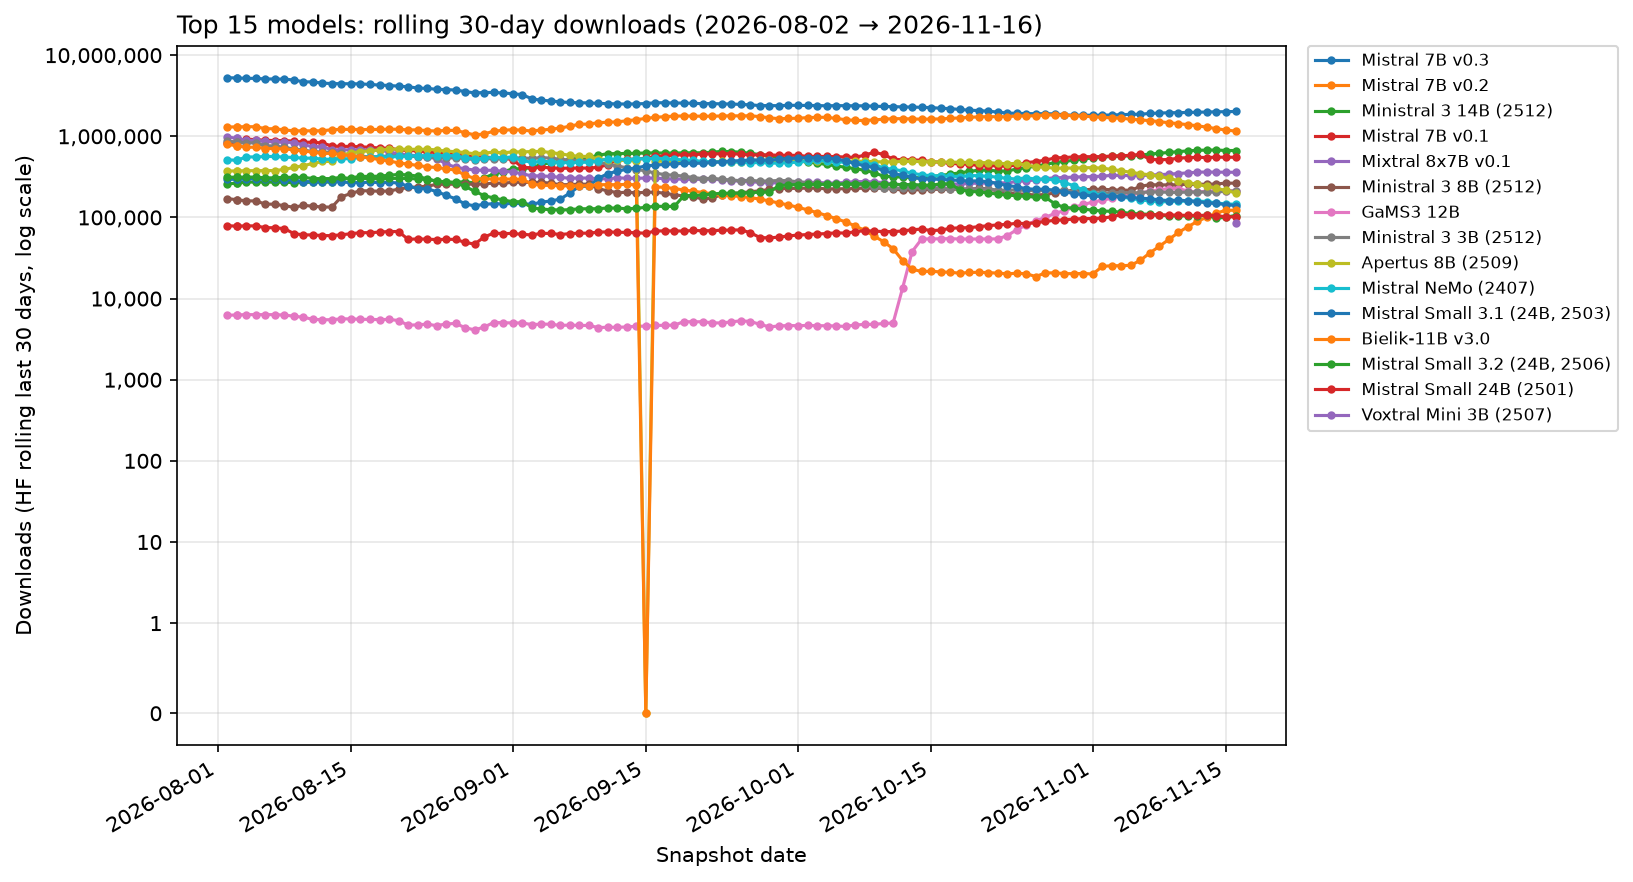
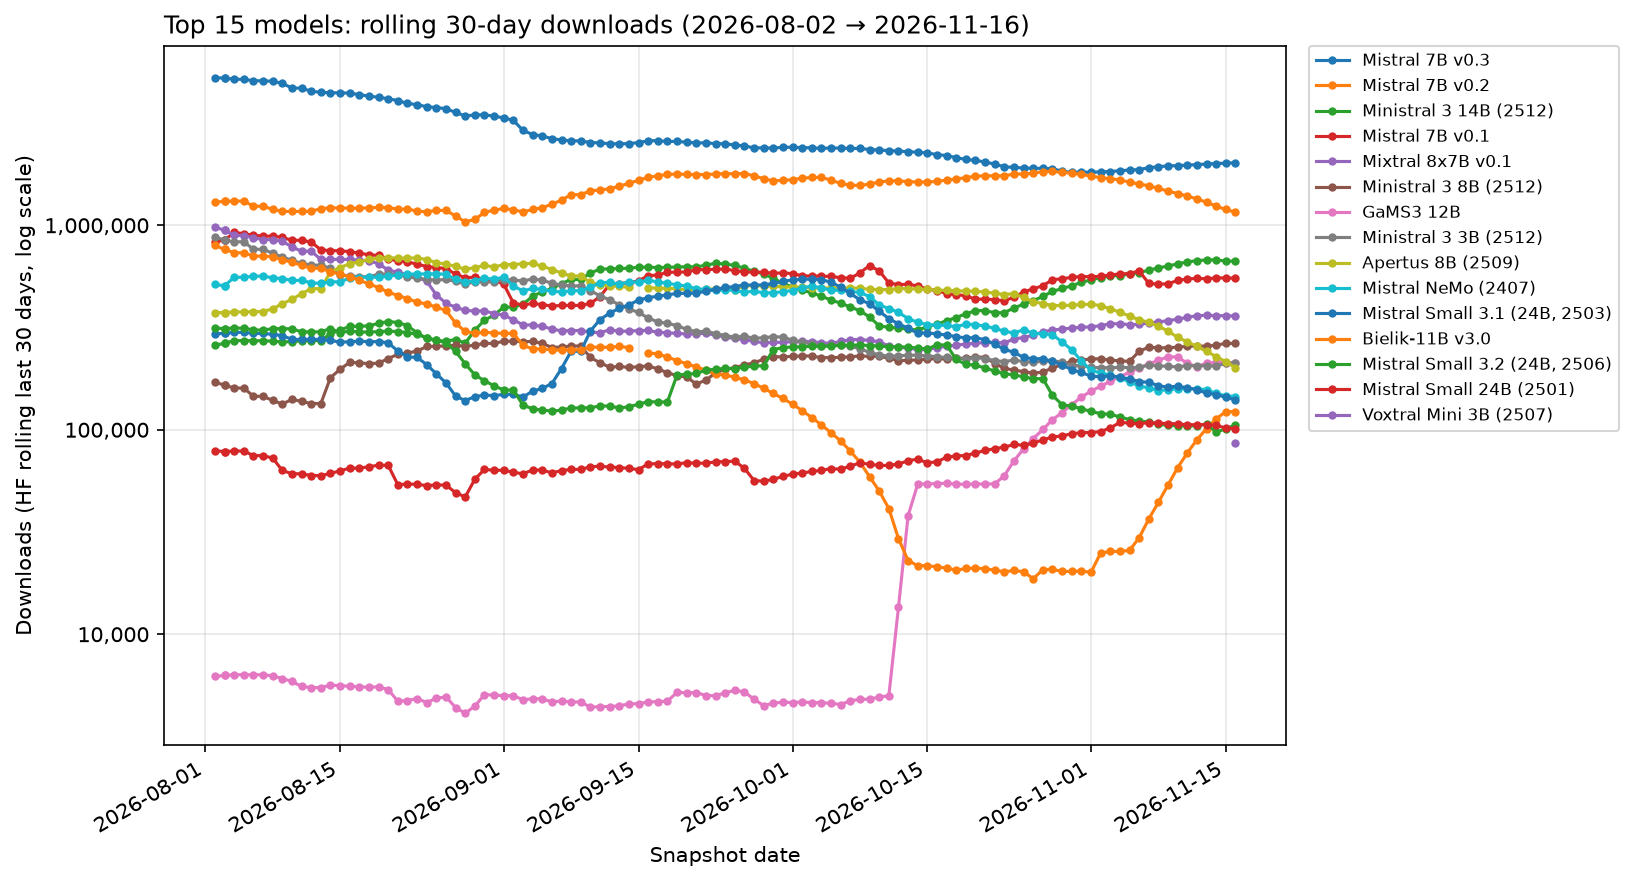
Omit incomplete observations from rolling-download charts (#3)

diff --git a/tests/test_timeseries_history.py b/tests/test_timeseries_history.py
@@ -1,9 +1,10 @@
 import sys
+import json
 import unittest
 from pathlib import Path
 
 sys.path.insert(0, str(Path(__file__).resolve().parents[1] / 'scripts'))
-from render_timeseries_charts import model_daily_delta_series, org_daily_deltas, org_totals_per_day
+from render_timeseries_charts import model_series, model_daily_delta_series, org_daily_deltas, org_totals_per_day
 
 
 class OrganizationHistoryTests(unittest.TestCase):
@@ -87,6 +88,46 @@ class OrganizationHistoryTests(unittest.TestCase):
         _, _, lifetime = org_totals_per_day(records, {'a': {'official_org': 'org'}})
         self.assertEqual(org_daily_deltas(records, lifetime)['org'], [None, None, None, 10])
         self.assertEqual(model_daily_delta_series(records, 'a')[1], [None, None, None, 10])
+
+    def test_rolling_model_series_omits_partial_measurements_and_preserves_zero(self):
+        records = [
+            {'snapshot_date': '2026-09-14', 'rows': {'a': {'downloads_30d': 100, 'complete': True}}},
+            {'snapshot_date': '2026-09-15', 'rows': {'a': {'downloads_30d': 17, 'complete': False}}},
+            {'snapshot_date': '2026-09-16', 'rows': {'a': {'downloads_30d': 95, 'complete': True}}},
+            {'snapshot_date': '2026-09-17', 'rows': {'a': {'downloads_30d': 0, 'complete': True}}},
+        ]
+        self.assertEqual(model_series(records, 'a', value_key='downloads_30d')[1], [100, None, 95, 0])
+
+    def test_partial_member_invalidates_only_its_organization_total(self):
+        records = [{'snapshot_date': '2026-09-15', 'rows': {
+            'partial': {'downloads_30d': 17, 'downloads_all_time': 100, 'complete': False},
+            'good_member': {'downloads_30d': 30, 'downloads_all_time': 300, 'complete': True},
+            'other_org': {'downloads_30d': 40, 'downloads_all_time': 400, 'complete': True},
+        }}]
+        _, rolling, lifetime = org_totals_per_day(records, {
+            'partial': {'official_org': 'affected'}, 'good_member': {'official_org': 'affected'},
+            'other_org': {'official_org': 'unaffected'},
+        })
+        self.assertEqual(rolling['affected'], [None])
+        self.assertEqual(lifetime['affected'], [None])
+        self.assertEqual(rolling['unaffected'], [40])
+        self.assertEqual(lifetime['unaffected'], [400])
+
+    def test_september_15_incomplete_snapshot_is_a_gap_in_both_rolling_charts(self):
+        path = Path(__file__).resolve().parents[1] / 'data/metrics/timeseries.jsonl'
+        records = [json.loads(line) for line in path.read_text().splitlines() if line.strip()]
+        records = [r for r in records if '2026-09-14' <= r['snapshot_date'] <= '2026-09-16']
+        self.assertEqual([r['snapshot_date'] for r in records], ['2026-09-14', '2026-09-15', '2026-09-16'])
+        for row_id in ['bielik-11b-v3.0', 'apertus-8b-2509']:
+            values = model_series(records, row_id, value_key='downloads_30d')[1]
+            self.assertIsNone(values[1])
+            self.assertGreater(values[0], 0)
+            self.assertGreater(values[2], 0)
+        meta = {'bielik-11b-v3.0': {'official_org': 'speakleash'},
+                'apertus-8b-2509': {'official_org': 'swiss-ai'}}
+        _, rolling, _ = org_totals_per_day(records, meta)
+        self.assertIsNone(rolling['speakleash'][1])
+        self.assertIsNone(rolling['swiss-ai'][1])
 
 if __name__ == '__main__':
     unittest.main()

diff --git a/scripts/render_timeseries_charts.py b/scripts/render_timeseries_charts.py
@@ -119,7 +119,7 @@ def model_series(
     for rec in records:
         dates.append(parse_date(rec["snapshot_date"]))
         row = rec["rows"].get(row_id)
-        values.append(row[value_key] if row else None)
+        values.append(row[value_key] if row and row.get("complete", True) else None)
     return dates, values
 
 
@@ -166,15 +166,18 @@ def org_totals_per_day(
         dates.append(parse_date(rec["snapshot_date"]))
         day_30d: dict[str, int] = defaultdict(int)
         day_all: dict[str, int] = defaultdict(int)
+        incomplete_orgs: set[str] = set()
         for row_id, row in rec["rows"].items():
             org = meta.get(row_id, {}).get("official_org")
             if not org:
                 continue
+            if not row.get("complete", True):
+                incomplete_orgs.add(org)
             day_30d[org] += row["downloads_30d"]
             day_all[org] += row["downloads_all_time"]
         for org in known_orgs:
-            org_30d[org].append(day_30d.get(org))
-            org_all[org].append(day_all.get(org))
+            org_30d[org].append(None if org in incomplete_orgs else day_30d.get(org))
+            org_all[org].append(None if org in incomplete_orgs else day_all.get(org))
 
     return dates, org_30d, org_all
 

diff --git a/scripts/render_leaderboard_md.py b/scripts/render_leaderboard_md.py
@@ -199,7 +199,11 @@ def render_markdown(
                 "(top 15 models / top 10 orgs by latest-day volume). "
                 "Rolling-30d charts use a symlog y-axis (0 at zero, log compression above).",
                 "",
-                "Daily estimates omit intervals where the catalog changed, its identity is "
+                "Rolling-30-day charts omit incomplete model observations; organization "
+        "totals have a gap if any member model is incomplete. Complete zero "
+        "observations remain zero.",
+        "",
+        "Daily estimates omit intervals where the catalog changed, its identity is "
         "unknown, or a fetch was incomplete; they resume after two complete "
         "observations of the same catalog. This avoids "
         "counting newly added models’ lifetime downloads as daily growth.",

diff --git a/README.md b/README.md
@@ -21,6 +21,8 @@ Historical snapshots retain their original scope; changes across the scope corre
 
 From daily snapshots in `data/metrics/timeseries.jsonl` (top 15 models / top 10 orgs by latest-day volume). Rolling-30d charts use a symlog y-axis (0 at zero, log compression above).
 
+Rolling-30-day charts omit incomplete model observations; organization totals have a gap if any member model is incomplete. Complete zero observations remain zero.
+
 Daily estimates omit intervals where the catalog changed, its identity is unknown, or a fetch was incomplete; they resume after two complete observations of the same catalog. This avoids counting newly added models’ lifetime downloads as daily growth.
 
 ![Top models: rolling 30-day downloads over time (symlog scale)](docs/charts/timeseries-top-models-30d.png)

diff --git a/DEVELOPMENT.md b/DEVELOPMENT.md
@@ -255,3 +255,9 @@ or repository replacement, as well as an explicitly incomplete fetch, makes that
 not zero or historical downloads counted as growth. Without per-repo historical
 counters, this deliberately omits all daily series at the catalog boundary.
 Rolling-30-day totals and stored history are not rewritten.
+
+Rolling-30-day charts also omit incomplete observations. A model with
+`complete: false` is a gap even when some downloads were fetched successfully.
+An organization total is a gap if any of its contributing models is incomplete;
+other organizations remain visible. Genuine complete zero observations stay
+zero. This fixes the September 15 dip/recovery artifact without editing history.
